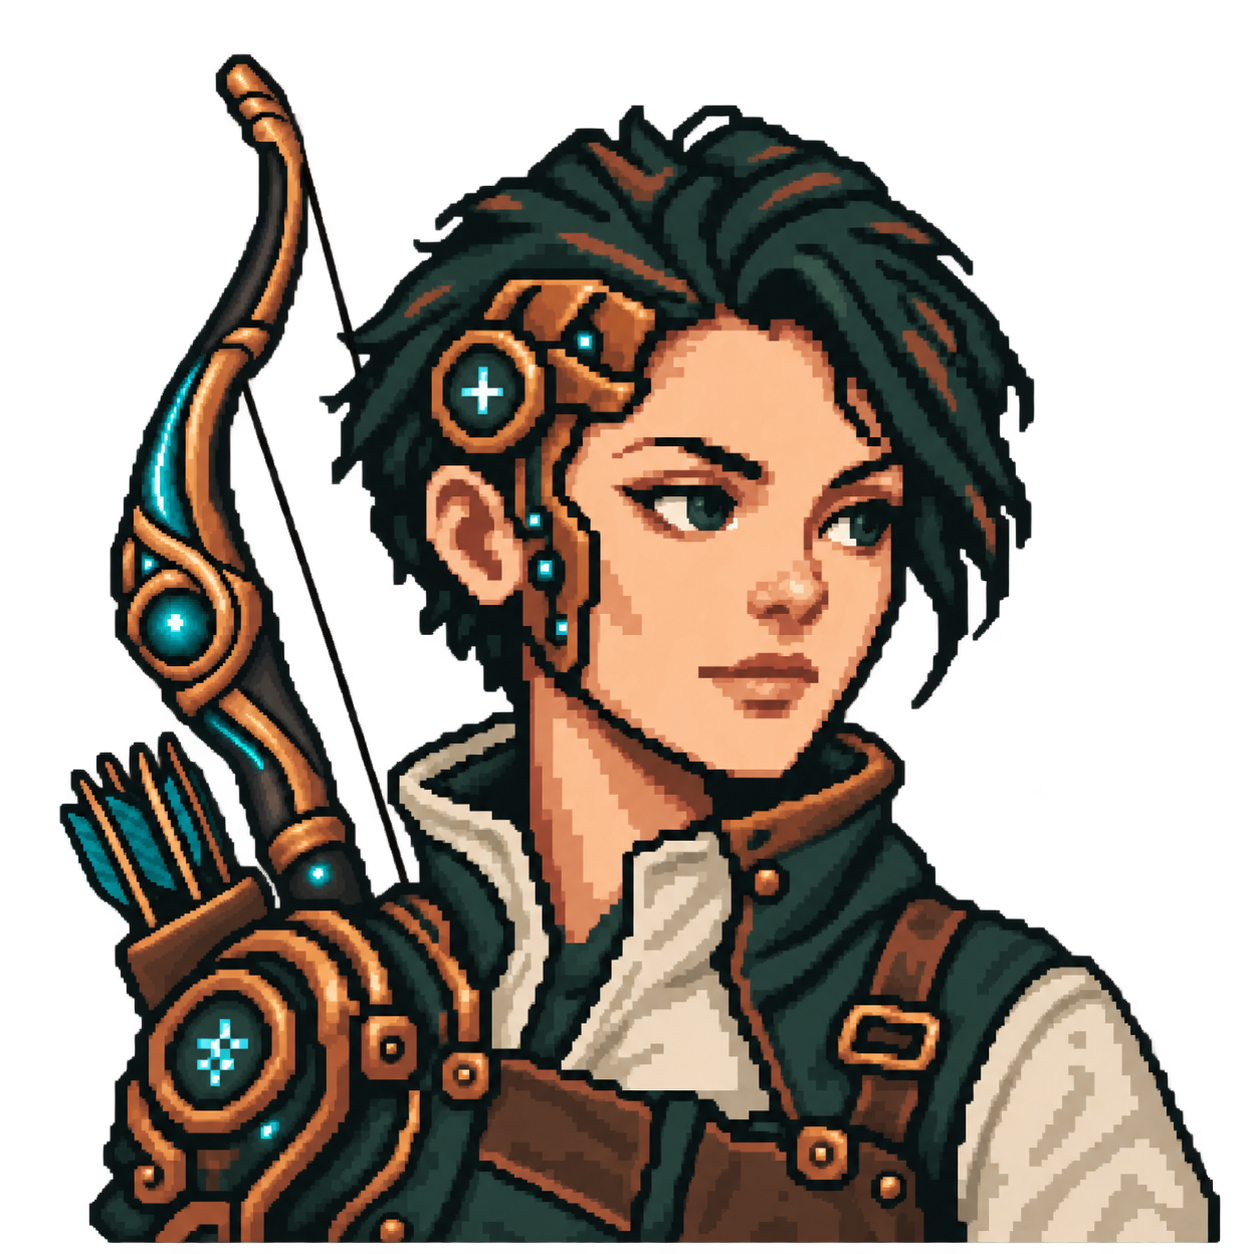
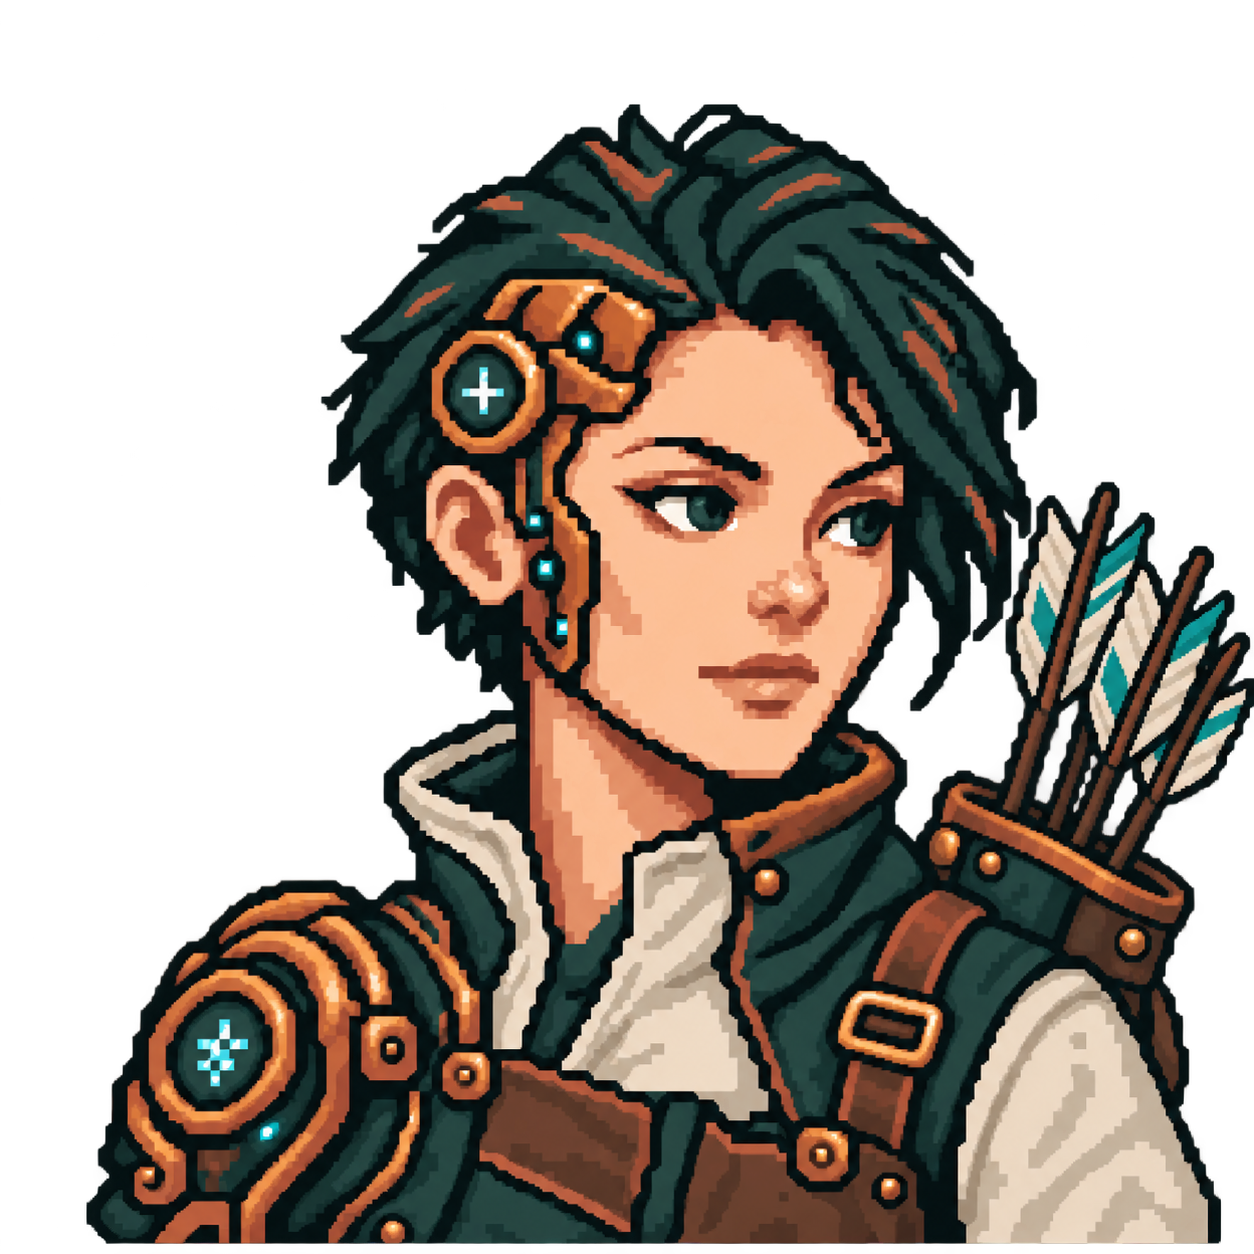
Fix character bows and Maera portrait

diff --git a/docs/art_direction.md b/docs/art_direction.md
@@ -16,9 +16,13 @@ multiple with nearest-neighbor filtering.
 
 The current character cards use generated **concept portraits** in
 `assets/art/concepts/`. They establish a shared bust crop, visible bows, and
-palette direction for all three marksmen. Maera's bow and brace carry the
-fantasy-tech detail; The Natural carries a plain wooden bow; Vey has a dark,
-angular speed bow and a smaller pulse sight. Each bow has one visible string.
+palette direction for all three marksmen, each with a visible arrow quiver.
+The bows are separate SVG layers so
+their silhouettes and single strings can be checked directly. Maera's bow and
+brace carry the fantasy-tech detail; The Natural carries a plain wooden bow;
+Vey has a dark, angular speed bow and a smaller pulse sight.
+Maera faces the opposite direction on character select; her bow and brace stay
+together, with the quiver over her draw shoulder.
 These are high-resolution pixel-art styled drafts, not finished 96 × 96 sprites.
 Redraw or refine them as original game assets before treating the portrait
 style as final. The Natural's plain
